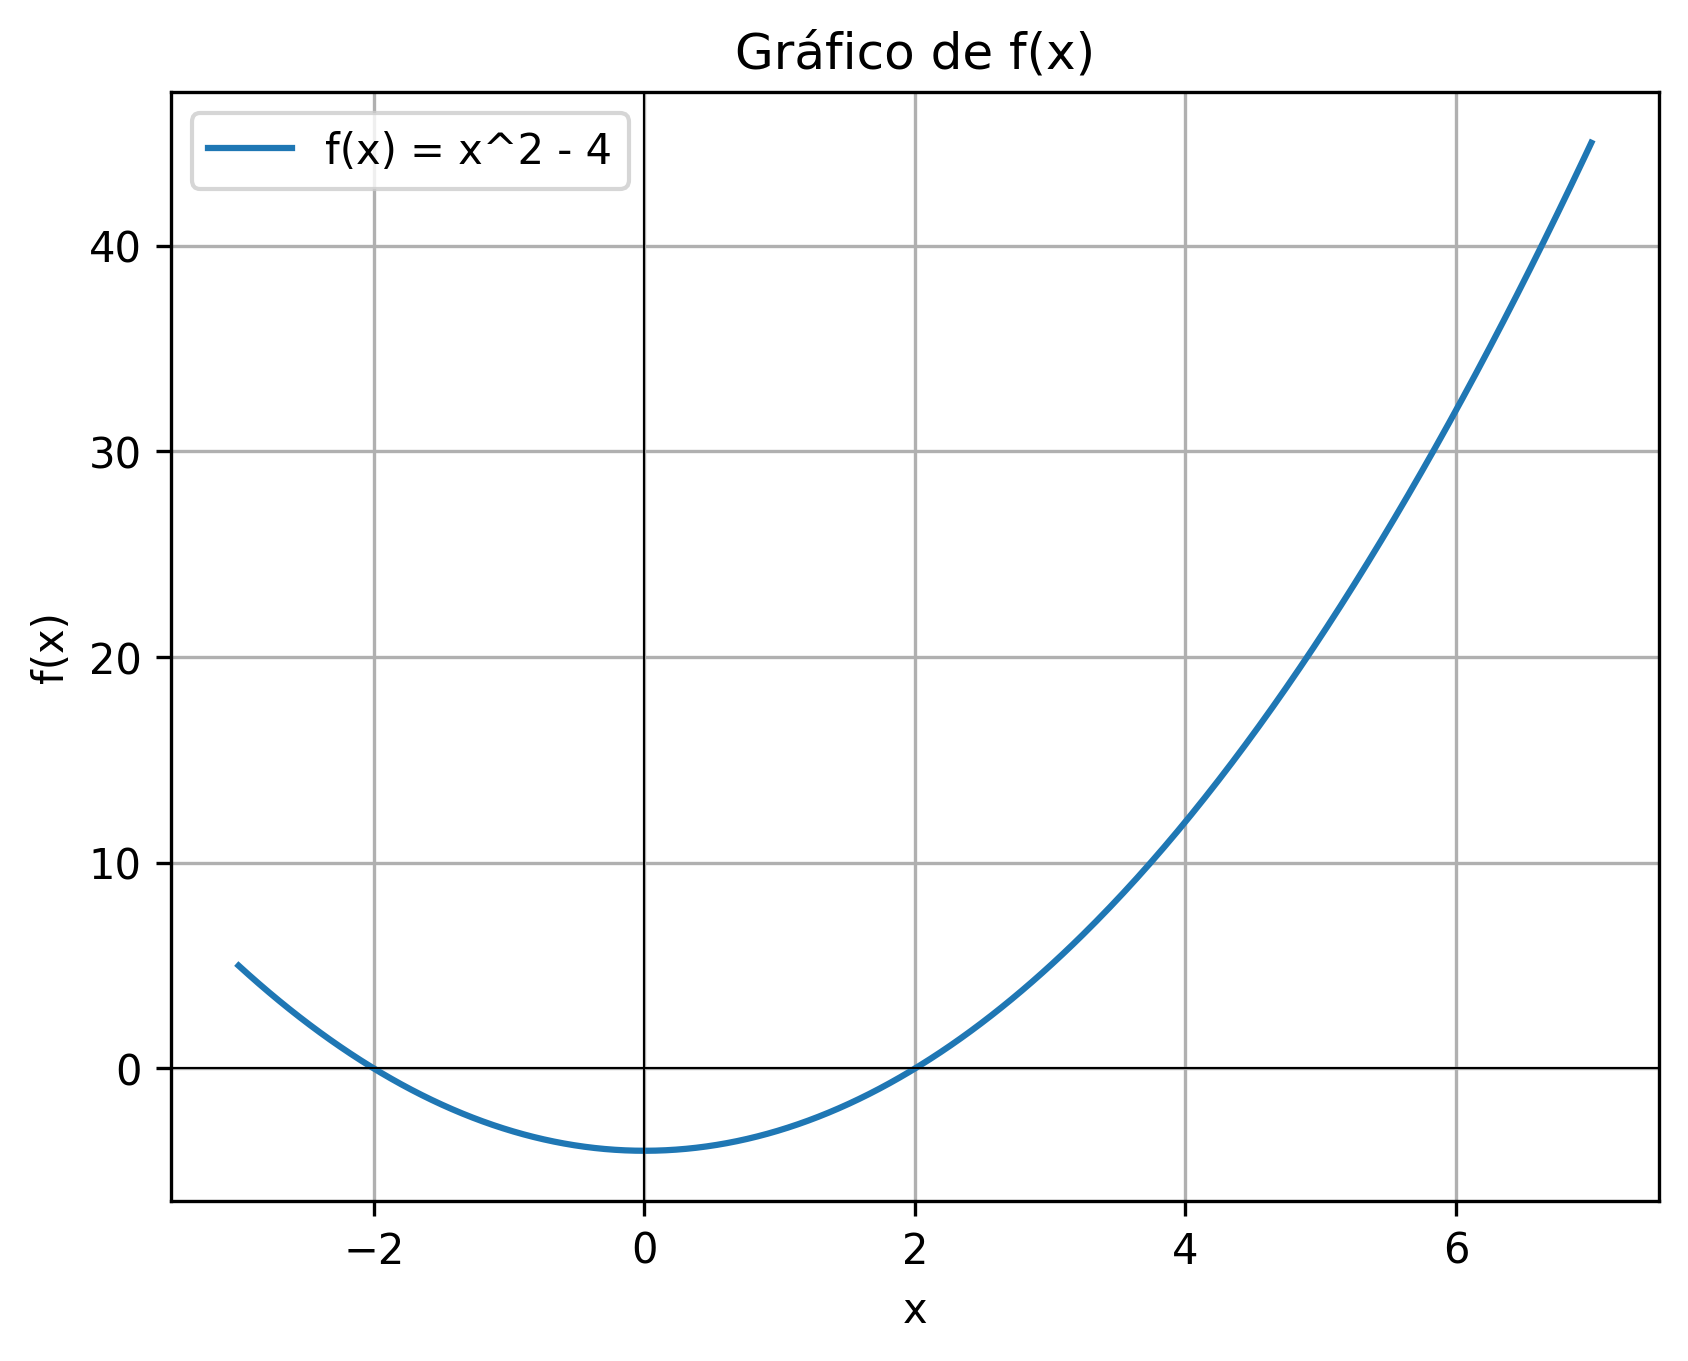
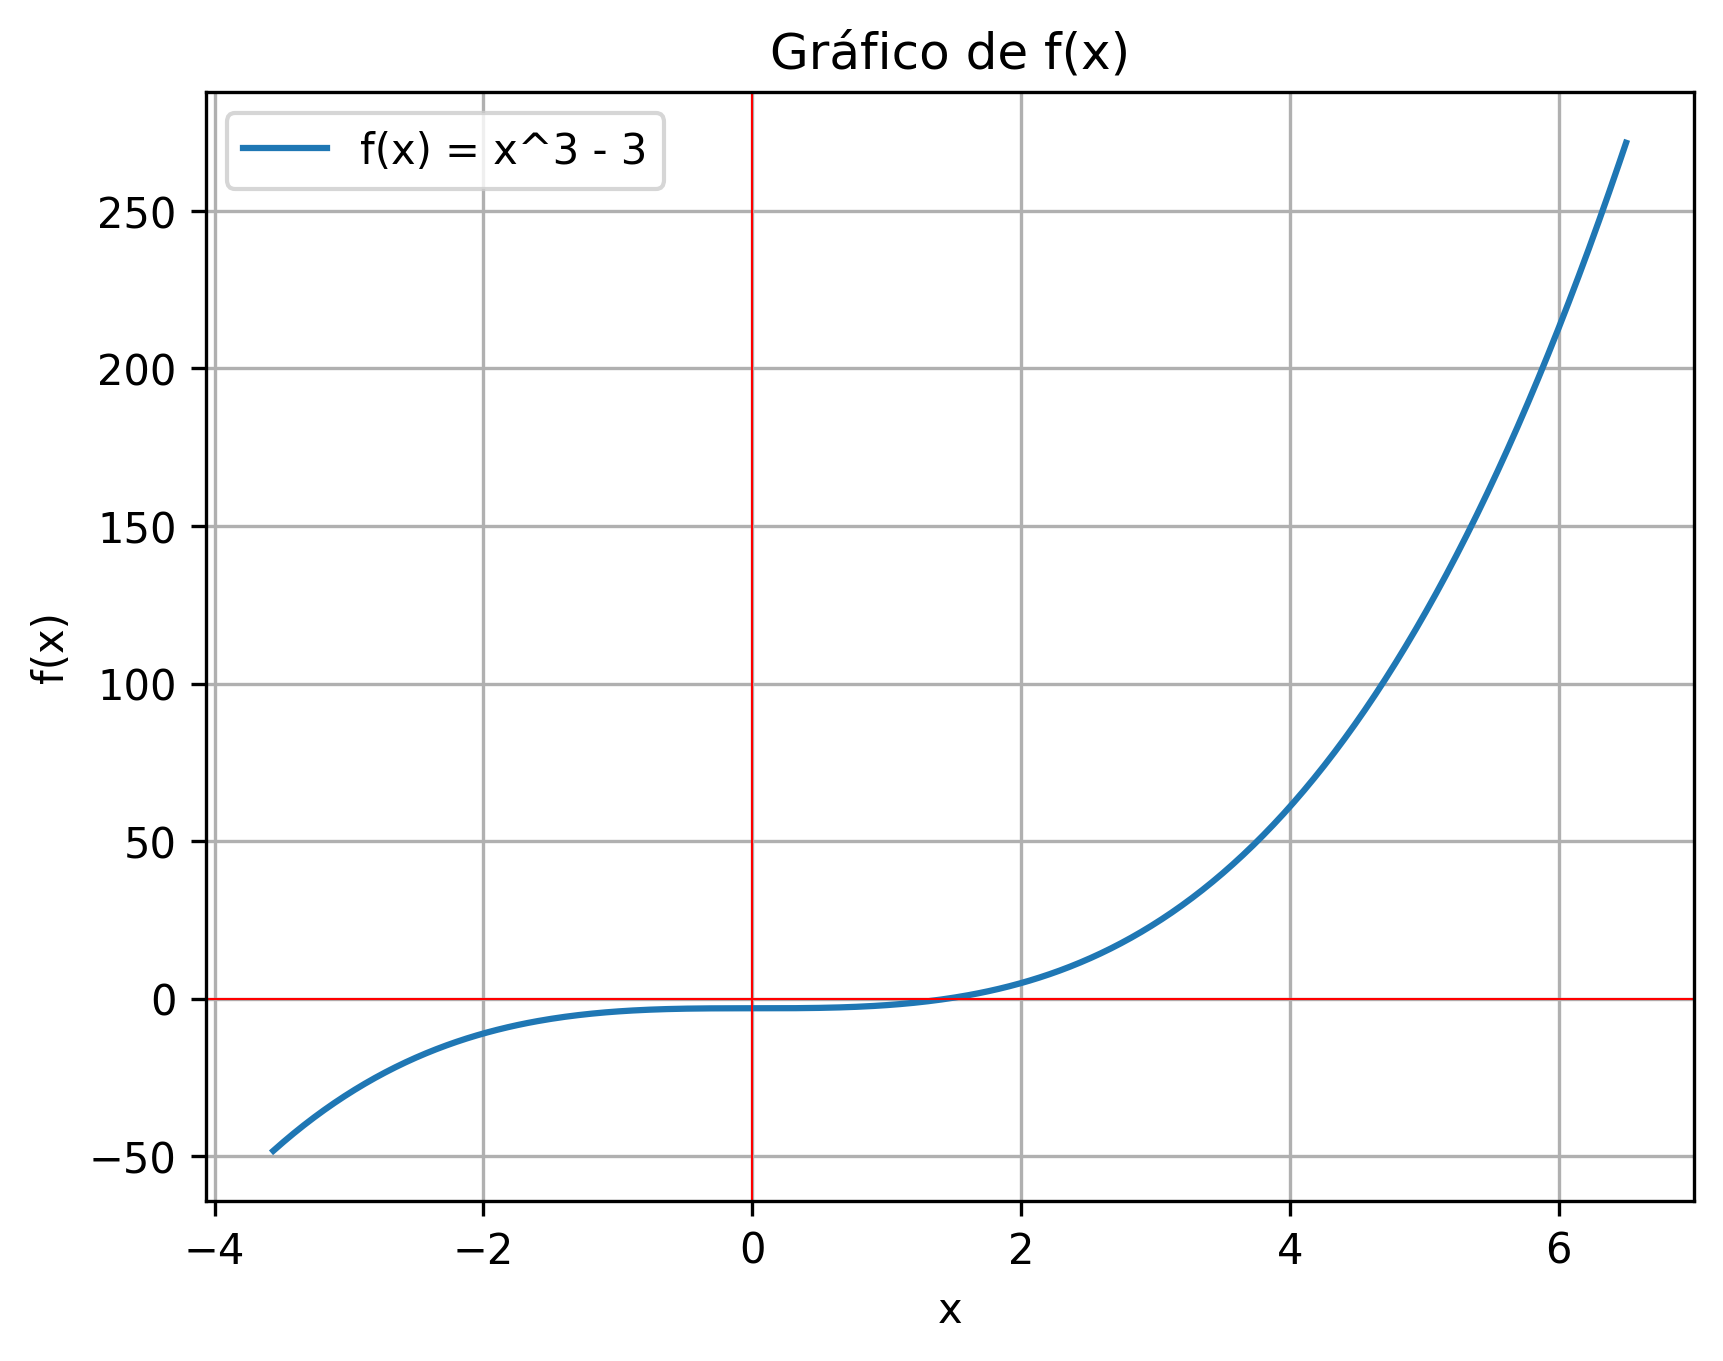
versão 4.0

diff --git a/main.py b/main.py
@@ -1,14 +1,17 @@
 import numpy as np
+import pandas as pd
 import matplotlib.pyplot as plt
-
+from matplotlib.backends.backend_agg import FigureCanvasAgg as FigureCanvas
 
 def linha():
     print("-"*20)
 
+
 #Definição da função f(x)
 def f(x):
-    return x**2 - 4 
-funcao = 'f(x) = x^2 - 4'
+    return x**3 - 3 
+funcao = 'f(x) = x^3 - 3'
+
 
 #Recebendo os valores do intervalo [a, b]
 print("\n\n  Recebendo o intervalo [a,b]\n")
@@ -17,12 +20,9 @@ b = float(input("b: "))
 xn = float()
 
 
-
 #Declaração do critério de parada
 epsilon = abs(b - a)
 linha()
-
-
 
 
 #Demarcando intervalo da tolerância
@@ -32,6 +32,25 @@ linha()
 stop = 10**(-1*n)
  
 
+#Criando os dados da tabela
+dataTabela = {
+    "n":list(),
+    "an":list(),
+    "bn":list(),
+    "xn":list(),
+    "f(xn)":list(),
+    "ε":list()
+}
+
+n = 0
+dataTabela['n'].append(int(n))
+dataTabela["an"].append(round(a, 5))
+dataTabela["bn"].append(round(b, 5))
+dataTabela["ε"].append("--")
+dataTabela["xn"].append(xn)
+dataTabela["f(xn)"].append(f(xn))
+
+#Calculando o valor aproximado de x1
 if(f(a) * f(b) < 0):
     msg = str()
     while epsilon > stop:
@@ -39,7 +58,8 @@ if(f(a) * f(b) < 0):
         if(xn != None): epsilon = xn
         
         xn = (b + a)/2
-
+        
+        
         epsilon = abs(xn - epsilon) 
 
         if(f(xn) == 0):
@@ -51,10 +71,18 @@ if(f(a) * f(b) < 0):
         
         else:
             a = xn
+
+        if(n > 0):
+            dataTabela["n"].append(int(n))
+            dataTabela["an"].append(round(a, 5))
+            dataTabela["bn"].append(round(b, 5))
+            dataTabela["ε"].append(round(epsilon,5))
+            dataTabela["xn"].append(round(xn, 5))
+            dataTabela["f(xn)"].append(round(f(xn), 5))
+        n+=1
         msg = f"A raiz aproximada é x1 = {xn}"
 
     print(msg)
-
 else:
     print("Não há raiz no intervalo pois: ")
     print(f"f(a) * f(b) = {f(a)*f(b)}")
@@ -62,7 +90,6 @@ else:
 
 linha()
 print("\n\n")
-
 
 
 
@@ -89,3 +116,29 @@ plt.legend()
 plt.grid(True)
  
 plt.savefig('grafico.png', dpi=300, bbox_inches='tight')
+
+
+
+
+#Gerando Tabela
+# Crie um DataFrame
+df = pd.DataFrame(dataTabela)
+
+# Crie a figura e o eixo
+fig, ax = plt.subplots(figsize=(5, 2))  # Tamanho da imagem (largura, altura)
+
+# Oculte o eixo
+ax.axis('off')
+
+# Desenhe a tabela no gráfico
+tabela = ax.table(cellText=df.values, colLabels=df.columns, cellLoc='center', loc='center')
+
+# Ajuste o tamanho da fonte
+tabela.auto_set_font_size(False)
+tabela.set_fontsize(12)
+
+# Ajuste o tamanho das células
+tabela.scale(2, 1.2)
+
+# Salve a tabela como uma imagem PNG
+plt.savefig('tabela.png', dpi=300, bbox_inches='tight')

diff --git a/teste_tabela.py b/teste_tabela.py
@@ -1,0 +1,32 @@
+import pandas as pd
+import matplotlib.pyplot as plt
+from matplotlib.backends.backend_agg import FigureCanvasAgg as FigureCanvas
+
+# Exemplo de dados
+dados = {
+    'Coluna 1': [10, 20, 30],
+    'Coluna 2': [15, 25, 35],
+    'Coluna 3': [20, 30, 40]
+}
+
+# Crie um DataFrame
+df = pd.DataFrame(dados)
+
+# Crie a figura e o eixo
+fig, ax = plt.subplots(figsize=(5, 2))  # Tamanho da imagem (largura, altura)
+
+# Oculte o eixo
+ax.axis('off')
+
+# Desenhe a tabela no gráfico
+tabela = ax.table(cellText=df.values, colLabels=df.columns, cellLoc='center', loc='center')
+
+# Ajuste o tamanho da fonte
+tabela.auto_set_font_size(False)
+tabela.set_fontsize(12)
+
+# Ajuste o tamanho das células
+tabela.scale(2.0, 1.2)
+
+# Salve a tabela como uma imagem PNG
+plt.savefig('tabela.png', dpi=300, bbox_inches='tight')
